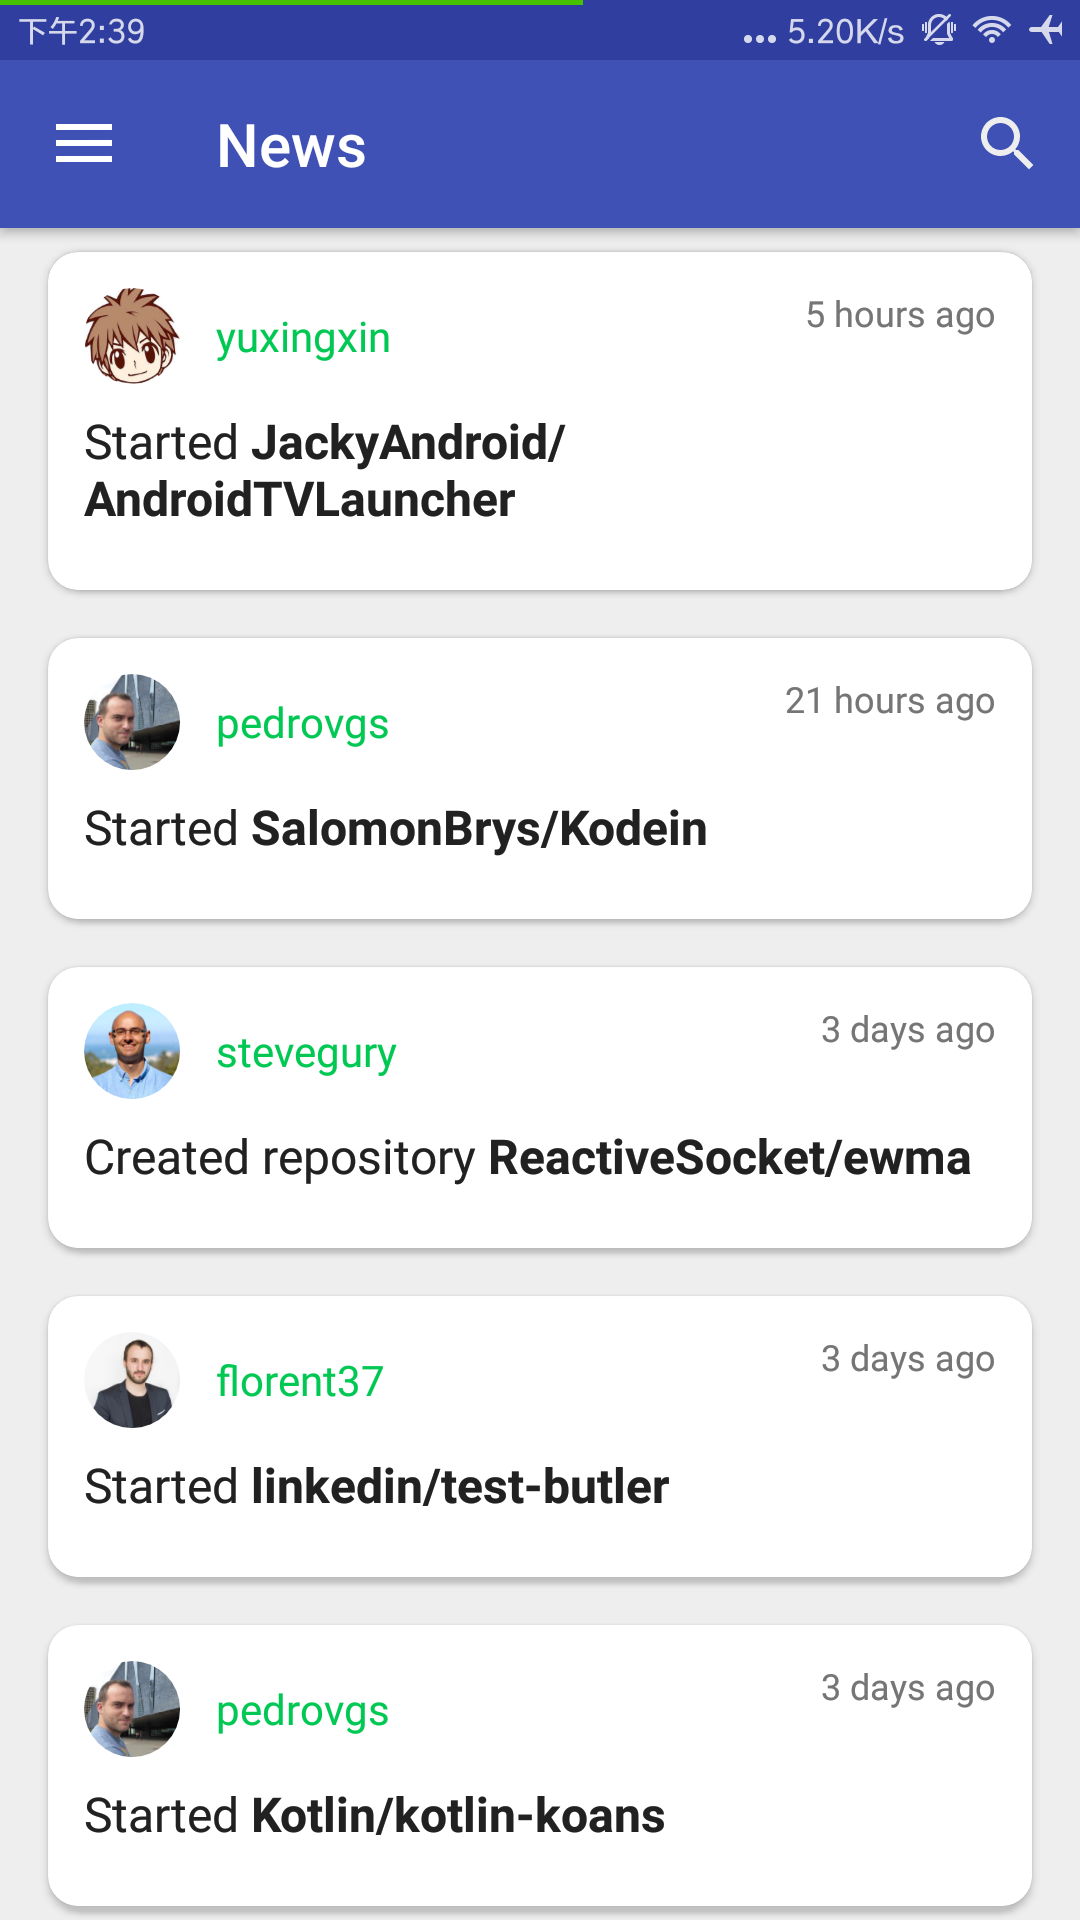
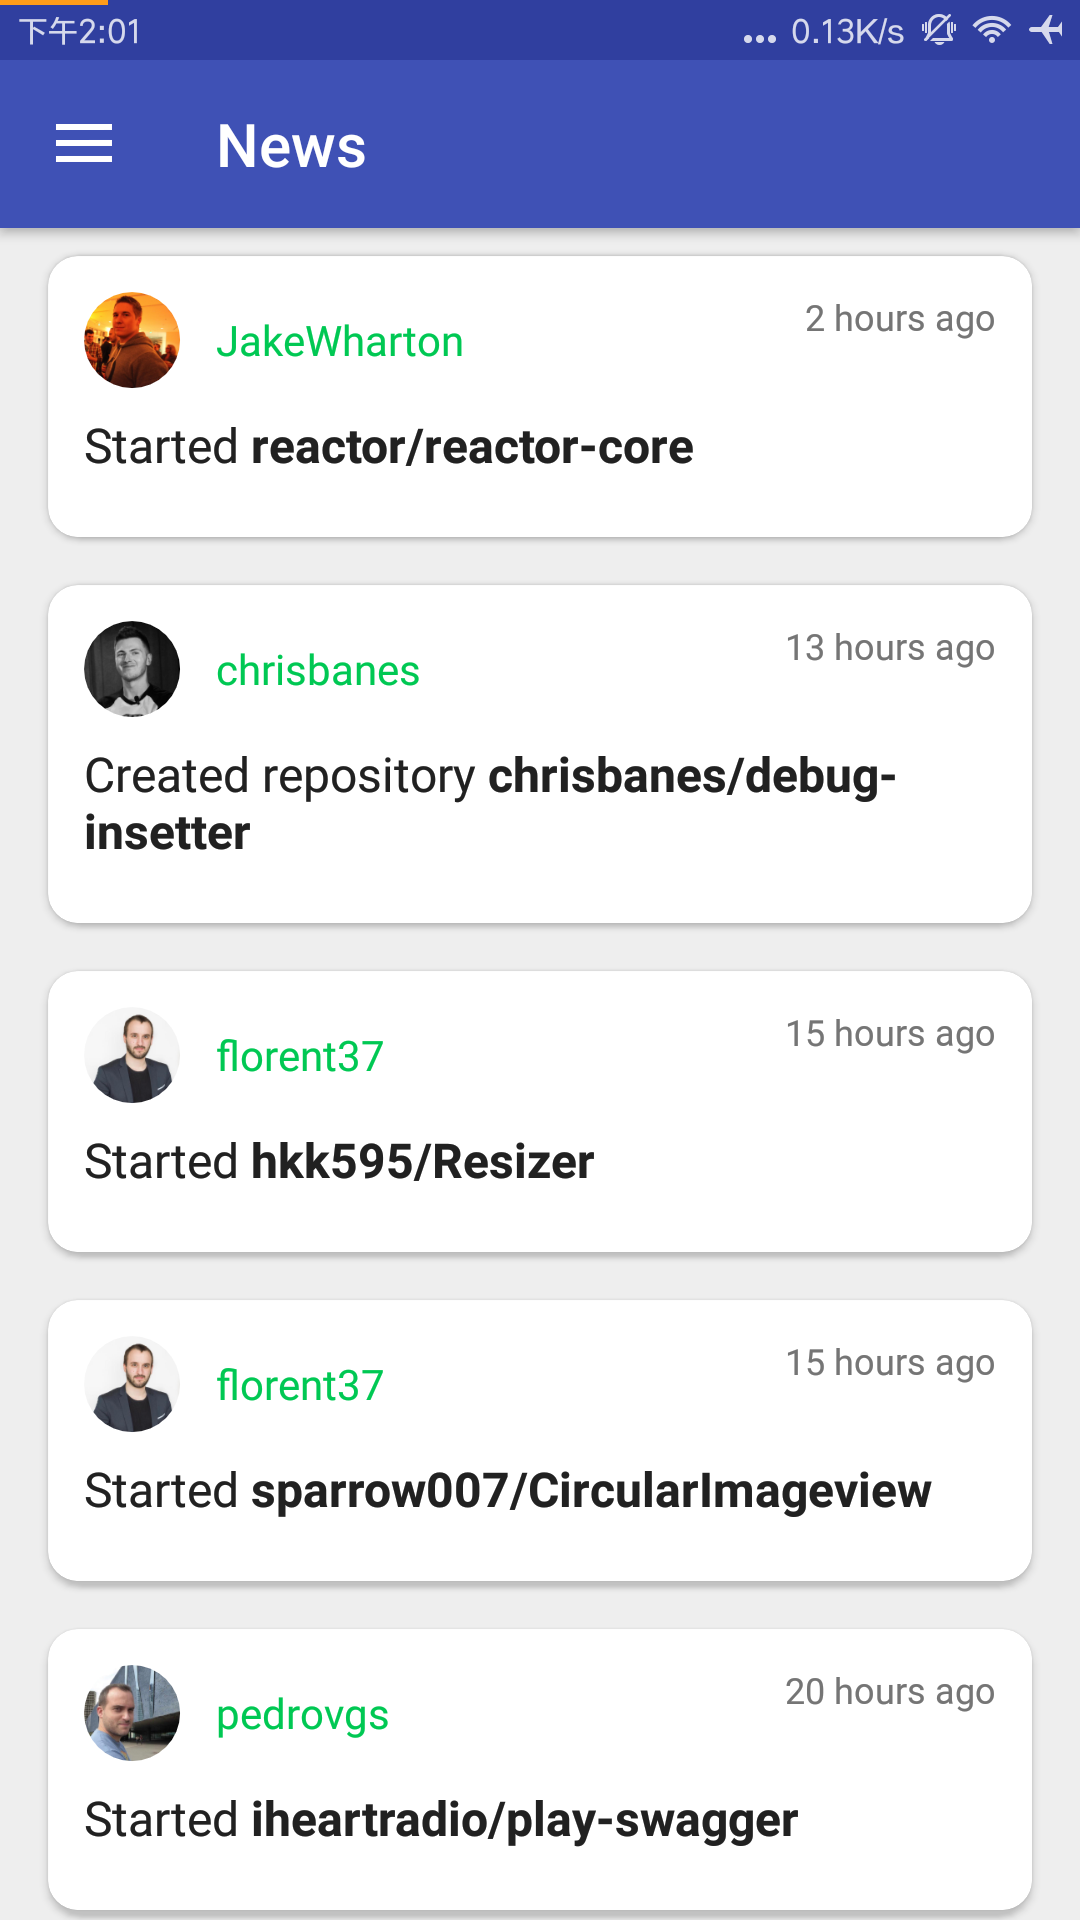
release v1.0.1

diff --git a/app/src/main/java/com/thirtydegreesray/openhub/ui/activity/MainActivity.java b/app/src/main/java/com/thirtydegreesray/openhub/ui/activity/MainActivity.java
@@ -49,6 +49,7 @@ import com.thirtydegreesray.openhub.ui.activity.base.BaseActivity;
 import com.thirtydegreesray.openhub.ui.fragment.ActivityFragment;
 import com.thirtydegreesray.openhub.ui.fragment.RepositoriesFragment;
 import com.thirtydegreesray.openhub.ui.fragment.TrendingFragment;
+import com.thirtydegreesray.openhub.util.StringUtils;
 
 import java.util.HashMap;
 import java.util.Map;
@@ -128,8 +129,10 @@ public class MainActivity extends BaseActivity<MainPresenter>
         GlideApp.with(getActivity())
                 .load(loginUser.getAvatarUrl())
                 .into(avatar);
-        name.setText(loginUser.getName());
-        mail.setText(loginUser.getBio());
+        name.setText(StringUtils.isBlank(loginUser.getName()) ? loginUser.getLogin() : loginUser.getName());
+        String joinTime = getString(R.string.joined_at).concat(" ")
+                .concat(StringUtils.getDateStr(loginUser.getCreatedAt()));
+        mail.setText(StringUtils.isBlank(loginUser.getBio()) ? joinTime : loginUser.getBio());
 
         tabLayout.setVisibility(View.GONE);
     }
